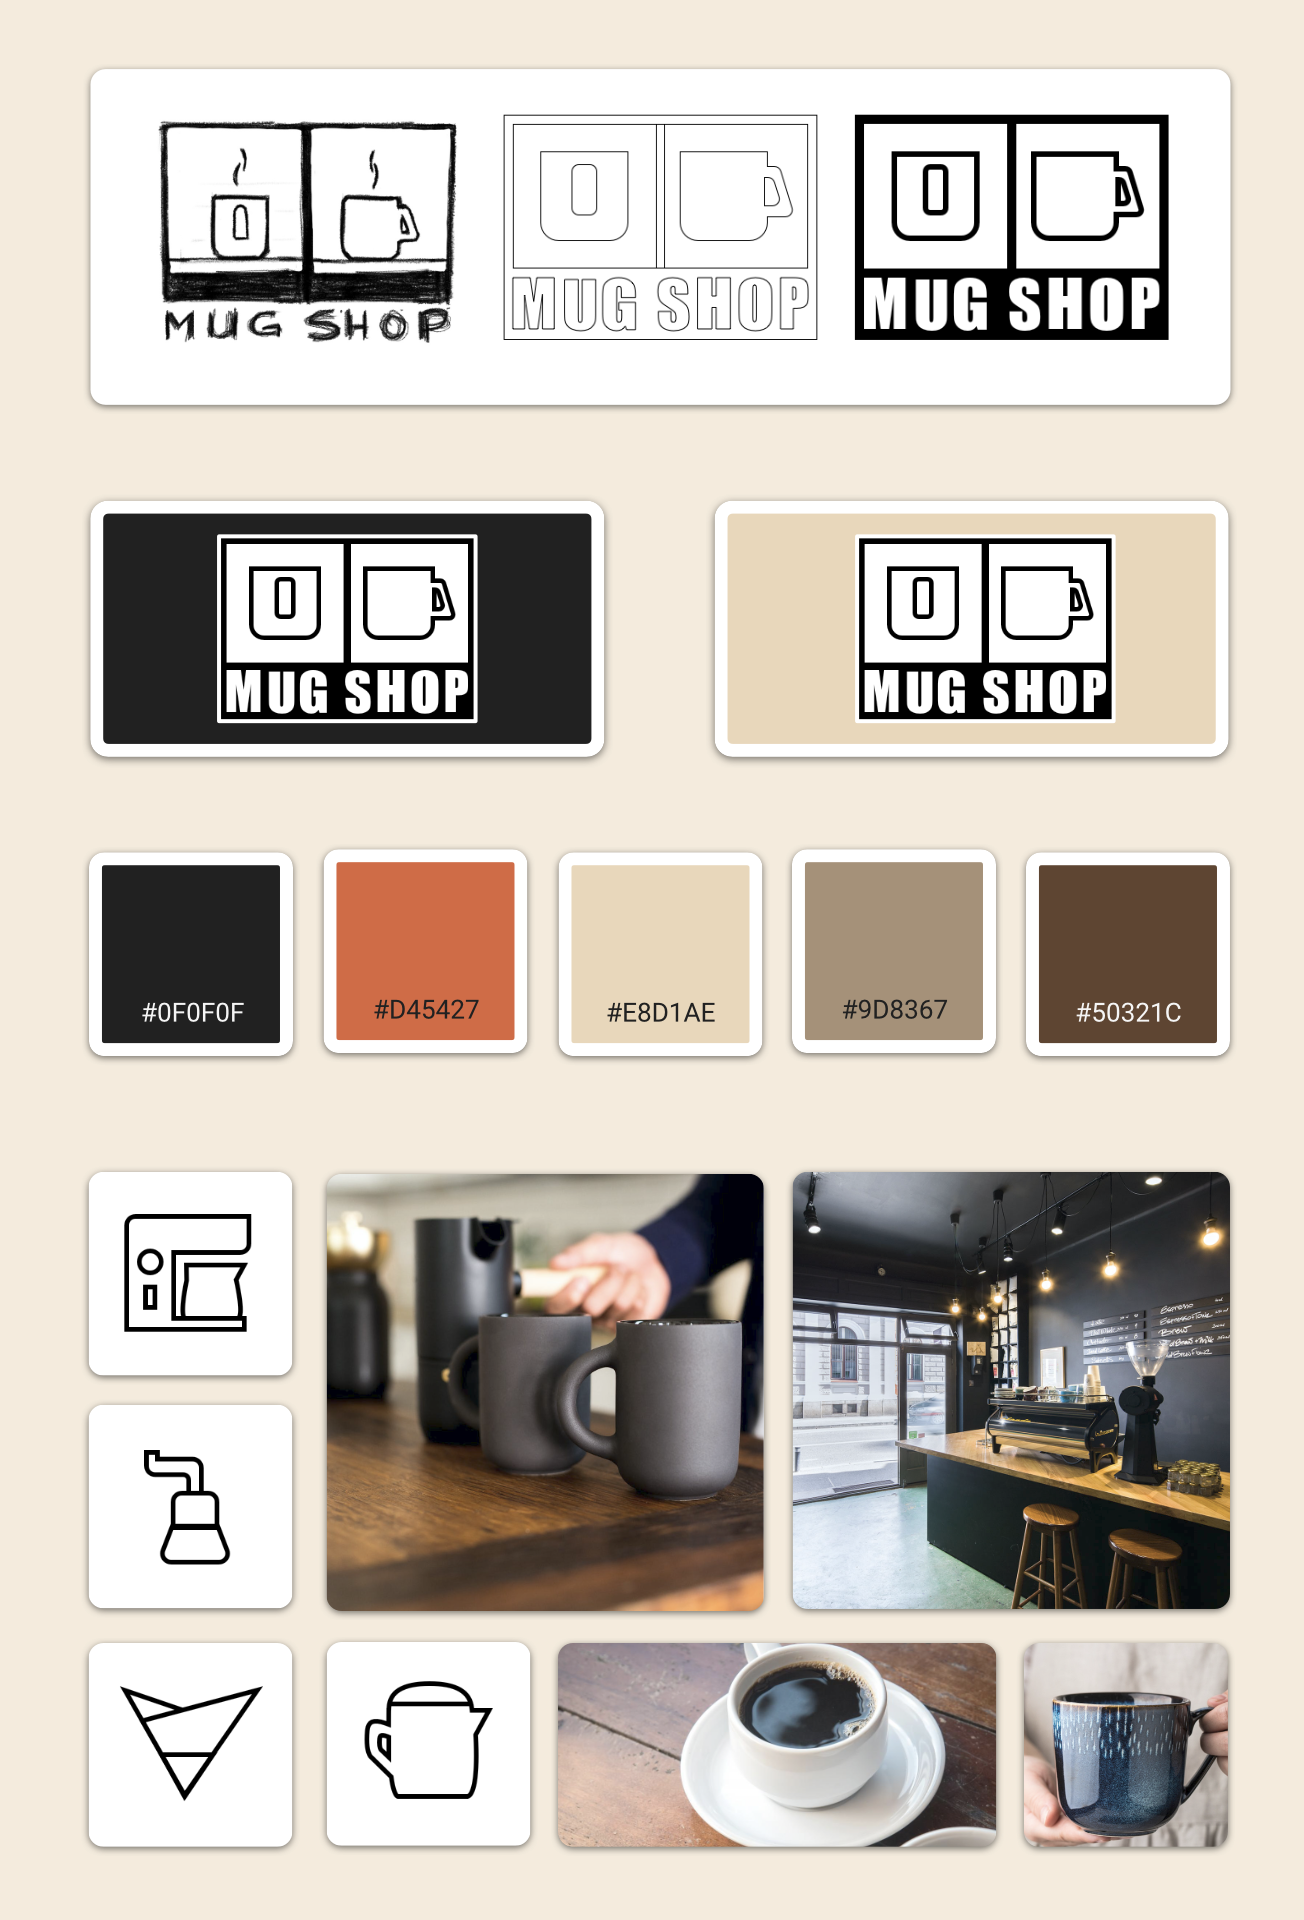
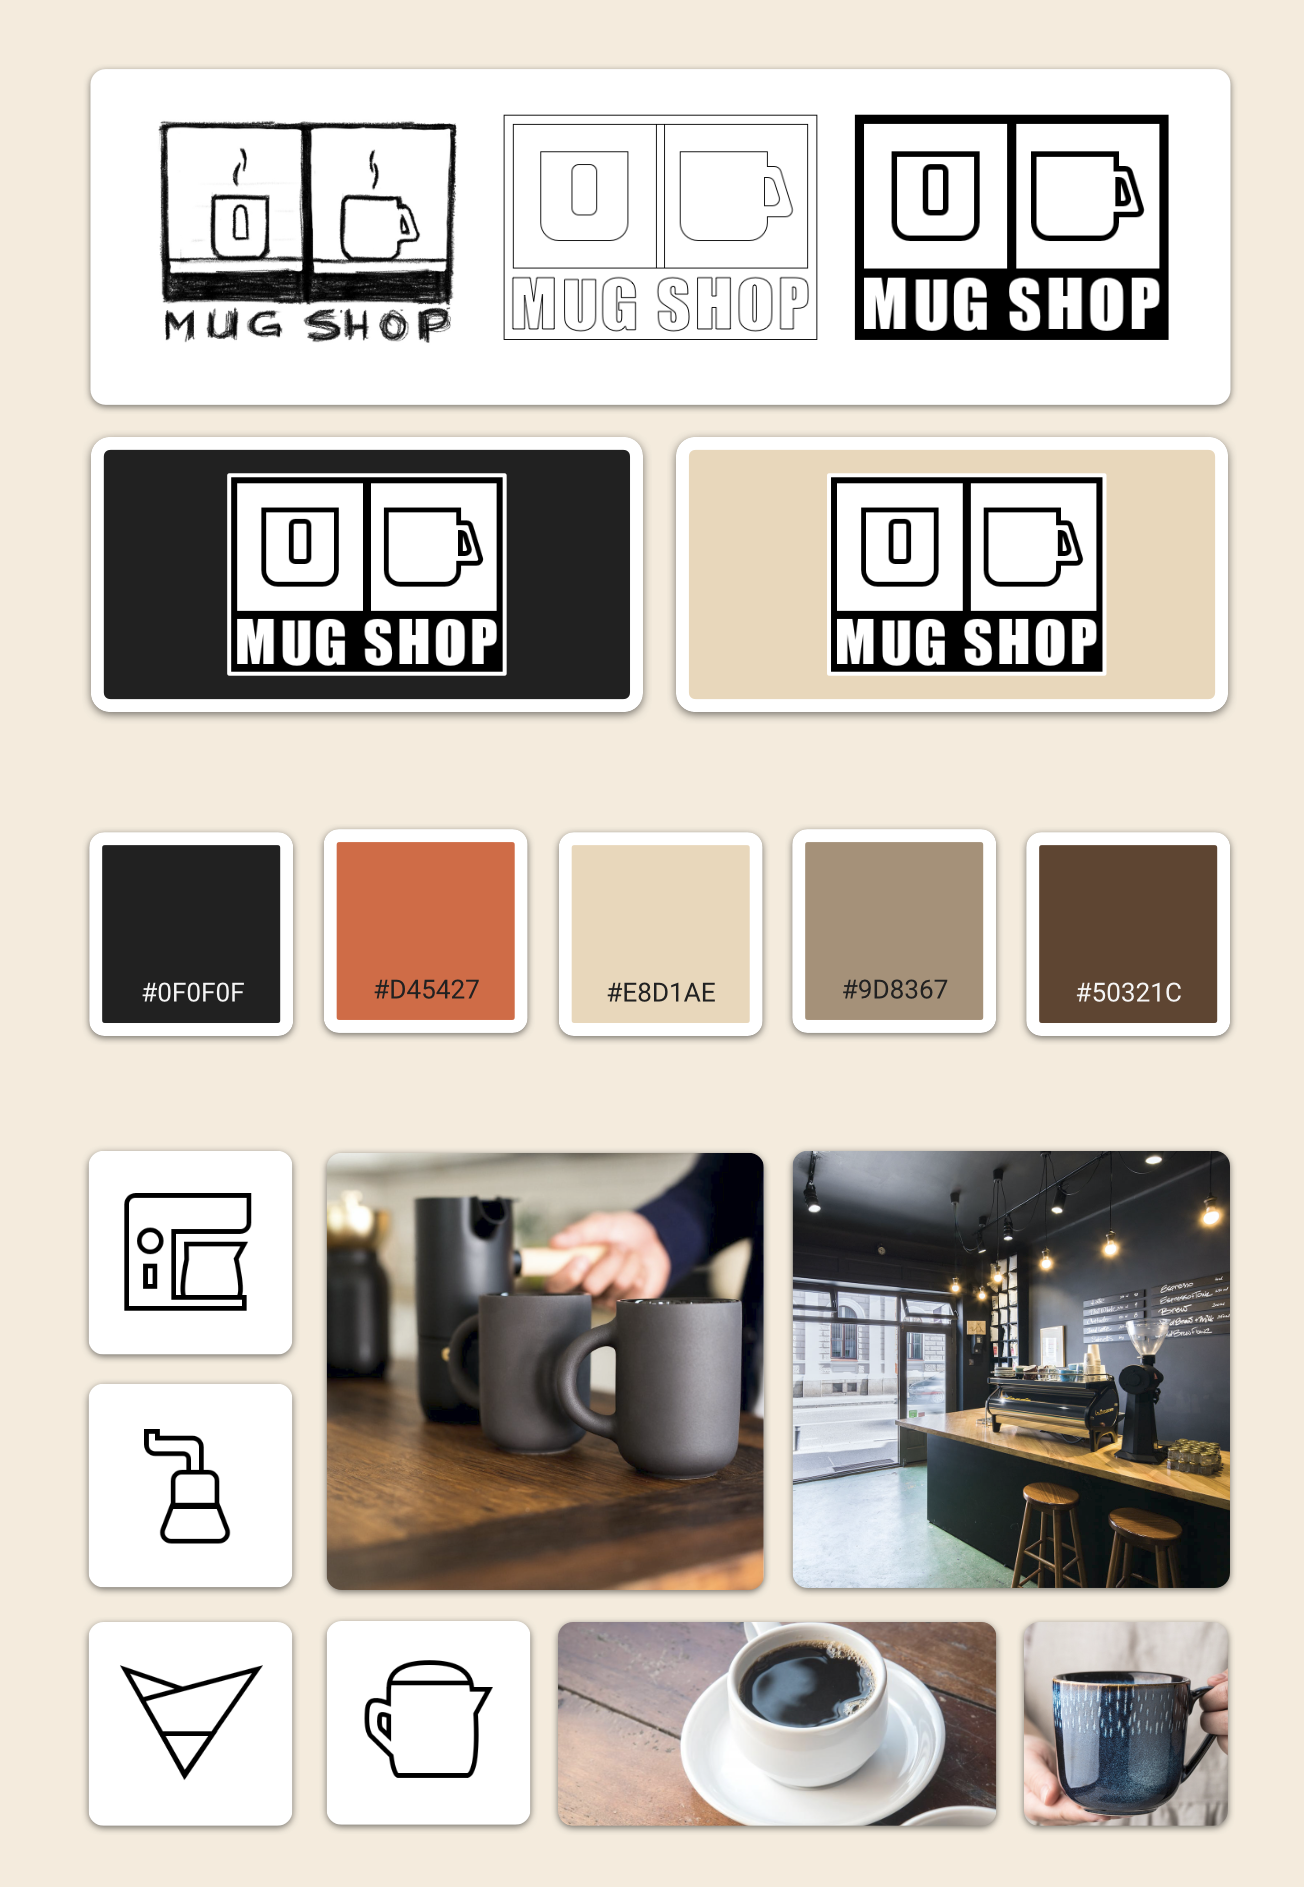
Content Update
- Added copy and imagery to food for you project
- tweaked some imagery in the mug shop project
- tweaked the vertical spacing on the index screen
- tweaked the typography of sub headers in the poseable project

diff --git a/food_for_you.html b/food_for_you.html
@@ -65,7 +65,8 @@
             <!--intro text column-->
             <h1>Food For You</h1>
             <h4>2020 - STUDENT PROJECT - 6 WEEKS</h4>
-            <p>Food for You is a location based recomendations application that gets to know you and your dining preferences so you’re never at a loss of what to eat. No more endless scrolls through other food apps, just boot up Food for You and you’ll see a curated list of options that we’re sure you’ll love, because you’ve told us!</p>
+            <p>Food for You is a location based recomendations application that gets to know you and your dining preferences so you’re never at a loss of what to eat. No more endless scrolls through other food apps, just boot up Food for You and
+              you’ll see a curated list of options that we’re sure you’ll love, because you’ve told us!</p>
           </div>
         </div>
         <!--intro text column end-->
@@ -132,7 +133,7 @@
       </div>
 
       <div class="takeaway-banner col-md-12">
-        <p>Users were frustrated with how long it took to decide what to get.<br><br>My solution would be to create an onboarding and rating section to learn from the user and display fewer but better recommendations.</p>
+        <p>Users were overwhelmed by the number of options and frustrated with how long it took to decide what to get.<br><br>My solution would be to create an onboarding and rating section to learn from the user and display fewer but better recommendations.</p>
       </div>
       <!--research container end-->
 
@@ -161,20 +162,153 @@
 
         <div class="project-text fixed col-md-6 col-lg-5">
           <h3>Ideation and Wireframing</h3>
-          <p>The user flows would focus on the 3 things I needed to incorporate into the design to address the pain points; onboarding, quickly finding an option, and then rating the experience.</p>
+          <p>Sketches of the 3 primary features I wanted to highlight in the design, creation of an account that leads to a quick onboarding, browsing the available suggestions, and then learning more about them.</p>
         </div>
 
         <div class="col-md-6 col-lg-7">
           <picture>
-            <source srcset="img/food_for_you/user_flows@0.5x.png" media="(max-width:767px)">
-            <img src="img/food_for_you/user_flows.png" class="project-img" alt="User Flows">
+            <source srcset="img/food_for_you/sketches@0.5x.png" media="(max-width:767px)">
+            <img src="img/food_for_you/sketches.png" class="project-img" alt="User Flows">
+          </picture>
+
+          <picture>
+            <source srcset="img/food_for_you/mid_fi_wireframes@0.5x.png" media="(max-width:767px)">
+            <img src="img/food_for_you/mid_fi_wireframes.png" class="project-img" alt="User Flows">
           </picture>
         </div>
 
       </div>
 
     </div>
-    <!--research block end-->
+
+    <div class="container">
+
+      <div class="project-section">
+        <!--research container-->
+
+        <div class="project-text fixed col-md-6 col-lg-5">
+          <h3>User and A/B Testing</h3>
+          <p>I wanted to test the flow of a new user. I had them start by creating an account, completing the onboarding before moving on to actually choosing a suggested location and rating it.</p>
+        </div>
+
+        <div class="col-md-6 col-lg-7">
+          <picture>
+            <source srcset="img/food_for_you/feedback@0.5x.png" media="(max-width:767px)">
+            <img src="img/food_for_you/feedback.png" class="project-img" alt="User Flows">
+          </picture>
+
+        </div>
+
+      </div>
+
+      <div class="takeaway-banner col-md-12">
+        <p>The onboarding flow proved to be fairly successful, but users were having trouble grasping the ratings worked.</p>
+      </div>
+
+      <div class="project-section">
+        <!--research container-->
+
+        <div class="project-text fixed mobile col-md-6 col-lg-5">
+          <p><br>The next round of testing was for the visual design of the suggestions screen. In an effort to keep things simple, I experimented with using stylized imagery highlighting the primary food served at the restaurant instead of actual
+            photos.</p>
+        </div>
+
+        <div class="col-md-6 col-lg-7">
+
+          <picture>
+            <source srcset="img/food_for_you/ab_test@0.5x.png" media="(max-width:767px)">
+            <img src="img/food_for_you/ab_test.png" class="project-img-r" alt="User Flows">
+          </picture>
+
+        </div>
+
+        <div class="project-text fixed desktop col-md-6 col-lg-5">
+          <p><br>The next round of testing was for the visual design of the suggestions screen. In an effort to keep things simple, I wanted to see if I could highlight the specific food for the user with a stylized image instead of a photo. I ran a A/B test between the two designs to see what users would react to better.</p>
+        </div>
+
+      </div>
+
+      <div class="takeaway-banner col-md-12">
+        <p>The overwhelming majority of testers preferred the actual photos over the illustrations.<br><br>They felt it better represented what they were getting.</p>
+      </div>
+
+    </div>
+
+    <div class="container">
+
+      <div class="project-section">
+        <!--research container-->
+
+        <div class="project-text fixed col-md-6 col-lg-5">
+          <h3>Iteration</h3>
+          <p>Some of the feedback I got described not remembering to rate a restaurant after visiting it. If given the opportunity, I would’ve experimented with a push notification that would appear a few hours after the user tapped the ‘Lets Go!’ button from the item description.<br><br>Things that I could action were making the rating system easier while still giving the users the option to be more specific and reusing the stylized food imagery during the onboarding process.</p>
+        </div>
+
+        <div class="col-md-6 col-lg-7">
+          <picture>
+            <source srcset="img/food_for_you/changes@0.5x.png" media="(max-width:767px)">
+            <img src="img/food_for_you/changes.png" class="project-img" alt="User Flows">
+          </picture>
+
+        </div>
+      </div>
+    </div>
+
+    <div class="container">
+
+      <div class="project-section">
+        <!--research container-->
+
+        <div class="project-text fixed col-md-6 col-lg-5">
+          <h3>Designing the Brand</h3>
+          <p>I wanted something bright, fun, and encouraging. The orange embodies the hunger that users will typically have to find something to eat while the yellow stands out against it making navigation easier.<br><br>The imagery is simple and stylized to communicate the most basic of themes.</p>
+        </div>
+
+        <div class="col-md-6 col-lg-7">
+          <picture>
+            <source srcset="img/food_for_you/style_guide@0.5x.png" media="(max-width:767px)">
+            <img src="img/food_for_you/style_guide.png" class="project-img" alt="User Flows">
+          </picture>
+
+        </div>
+      </div>
+    </div>
+
+    <div class="container">
+
+      <div class="project-section">
+        <!--research container-->
+
+        <div class="col-md-12 banner col-lg-12">
+          <picture>
+            <source srcset="img/food_for_you/mockup_1.png" media="(max-width:767px)">
+            <img src="img/food_for_you/mockup_1.png" class="project-img-banner" alt="User Flows">
+          </picture>
+
+        </div>
+
+        <div class="col-md-12 banner col-lg-12">
+          <picture>
+            <source srcset="img/food_for_you/mockup_2.png" media="(max-width:767px)">
+            <img src="img/food_for_you/mockup_2.png" class="project-img-banner" alt="User Flows">
+          </picture>
+
+        </div>
+      </div>
+    </div>
+
+    <div class="container">
+
+      <div class="project-section">
+        <!--research container-->
+
+        <div class="project-text col-md-12 col-lg-12">
+          <h3>Summary</h3>
+          <p>Designing a responsive application is trickier than I had originally thought. My main hurdle was that as the screens got larger, I found it difficult to fill in the space with meaningful information. This resulted in a lot of white space in my larger screens that I’m not really happy with.<br><br>In the future, I would like to experiment with this process in reverse and start with a large screen scaling downwards. While I’m sure this will come with it’s own challenges, I feel like it may be easier to consolidate information instead of spreading it out.</p>
+        </div>
+
+      </div>
+    </div>
 
 
 

diff --git a/poseable.html b/poseable.html
@@ -251,7 +251,18 @@
       <!--iuser testing/feedback container end-->
     </div>
     <!--user testing/feedback block end-->
+    <div class="container">
+      <!--idea/wireframe block-->
+      <div class="project-section">
+        <!--idea/wireframe container-->
+        <div class="project-text col-md-12 col-lg-12">
+          <h3>Summary</h3>
+          <p>As stated a few times throughout this study, my initial attempts to make the design as minimal as possible really backfired on me. During my remote testing, nobody understood how the toggles were supposed to work, why buttons were disappearing and reappearing and where menus were. Once I was able to actually walk them through the process, it made sense to them but that shouldn’t be expected with a UI.<br><br>I also played it pretty safe and close to the design language of the respective operating systems here. Going forward, I would love to try and make something more unified that still felt at home on different devices and had a bit more personality.</p>
+        </div>
 
+      </div>
+      <!--user testing/feedback container end-->
+    </div>
 
     <!--summary block end-->
 

diff --git a/css/style.css b/css/style.css
@@ -855,7 +855,8 @@ Medium devices (640px and larger)
   }
 
   .project-text h4 {
-    font-weight: 700;
+    font-size: 21px;
+    font-weight: 500;
   }
 
   .project-text.fixed {
@@ -1041,7 +1042,7 @@ Large devices (1024px or larger)
     #projects h2 {
       font-size: 48px;
       line-height: 48px;
-      padding-top: 25px;
+      padding-top: 50px;
       padding-bottom: 50px;
       margin: 0;
     }
@@ -1150,6 +1151,9 @@ Large devices (1024px or larger)
     .project-stats p {
       font-size: 20px;
       padding-bottom: 25px;
+    }
+    .project-text h4 {
+      font-weight: 700;
     }
 
     .problem h3 {

diff --git a/about.html b/about.html
@@ -75,7 +75,7 @@
             <div class="card-skills card-skills-md-5l card-skills-lg-3l">
               <!--VD sub-column-->
               <h3>Visual Design</h3>
-              <p>Art Direction<br>Illustration<br>Branding<br>Basic HTML, CSS, and JS</p>
+              <p>Art Direction<br>Illustration<br>Branding<br>Basic HTML, and CSS</p>
             </div>
             <!--VD sub-column end-->
 
